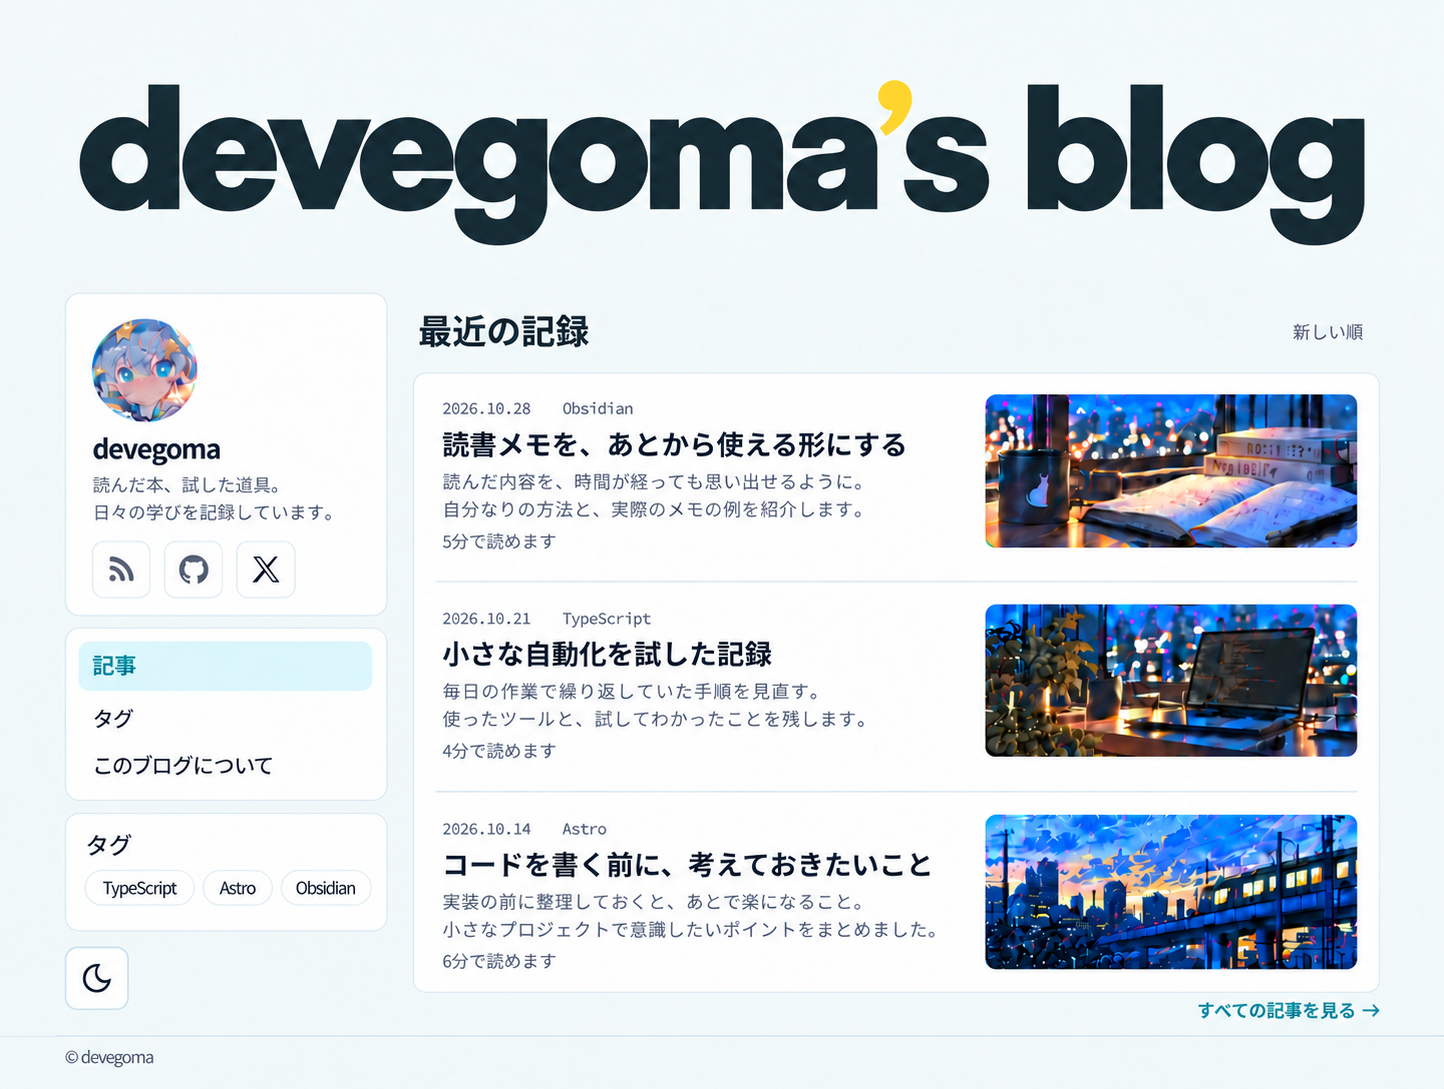
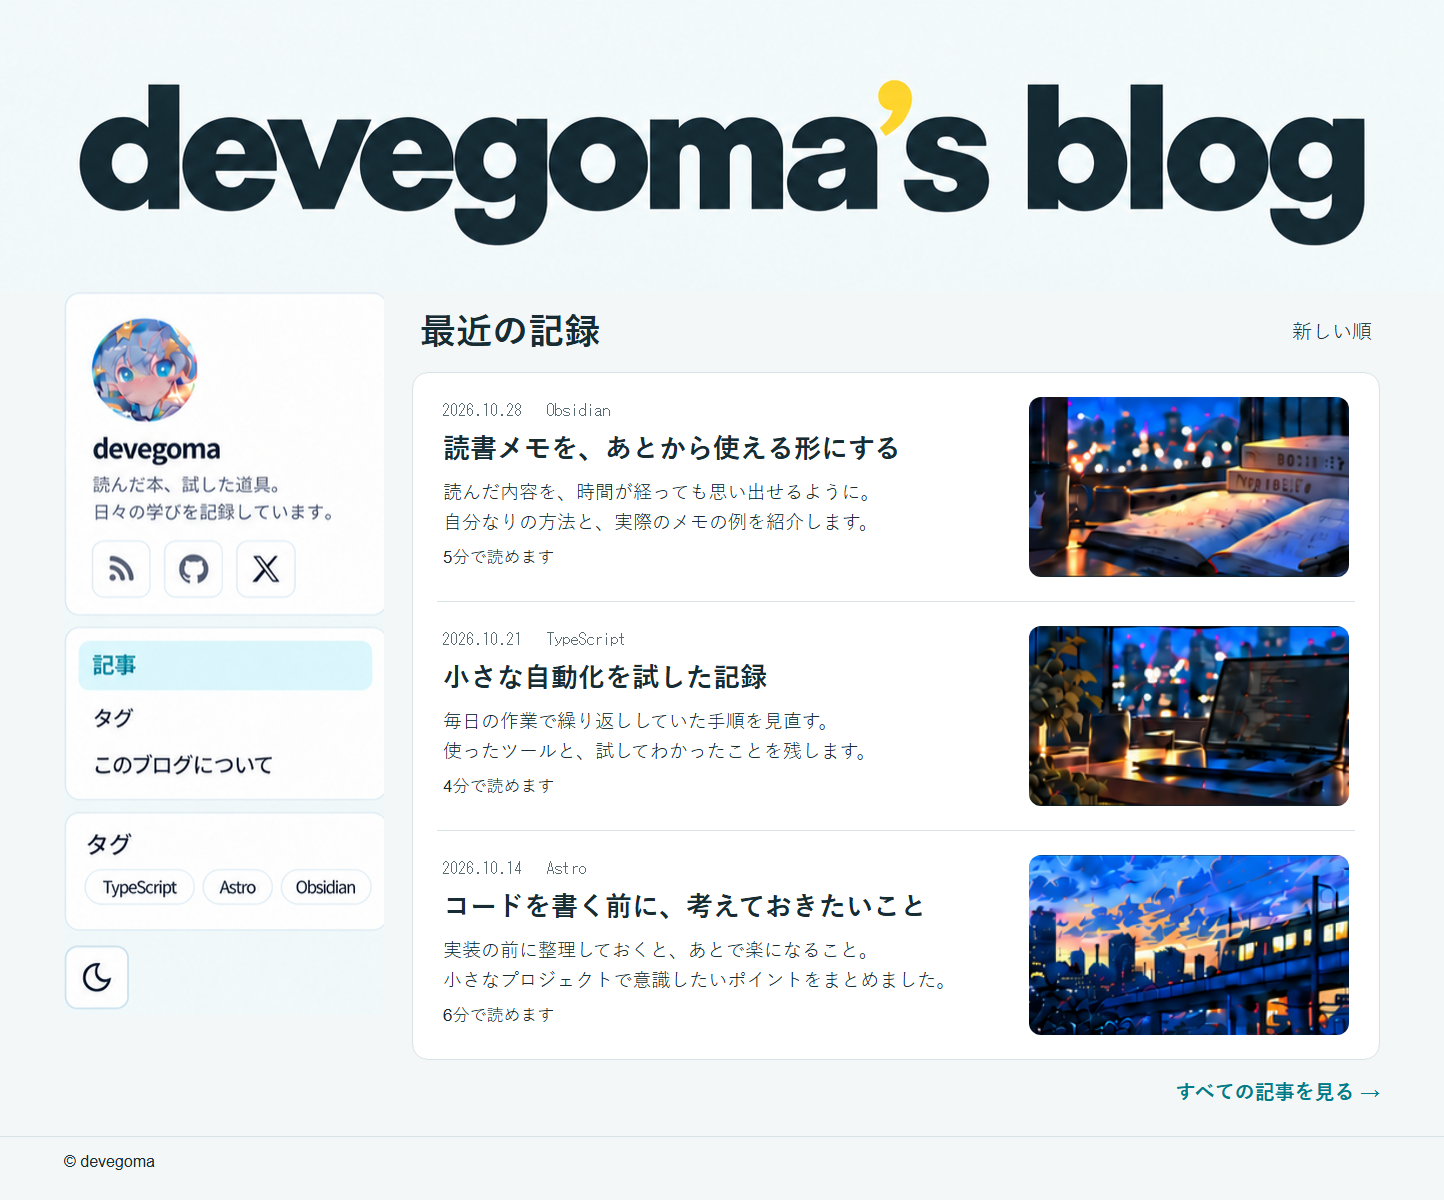
docs: align home thumbnails to 16:9

diff --git a/docs/design/home/preview.html b/docs/design/home/preview.html
@@ -1,0 +1,216 @@
+<!doctype html>
+<html lang="ja">
+    <meta charset="UTF-8" />
+    <title>ホーム画面・PC デザイン確認用</title>
+    <style>
+        /* デザイン資料専用。1444px の PC 画面を再現する。 */
+        * {
+            box-sizing: border-box;
+        }
+        body {
+            margin: 0;
+            width: 1444px;
+            background: #f3f7f8;
+            color: #172c33;
+            font-family: Arial, "Yu Gothic", sans-serif;
+        }
+        body.dark {
+            background: #08191f;
+            color: #fff;
+        }
+        .masthead {
+            height: 292px;
+            background: url("reference-light.png") 0 0 / 1444px 1088px;
+        }
+        .dark .masthead {
+            background-image: url("reference-dark.png");
+        }
+        main {
+            display: grid;
+            grid-template-columns: 320px 1fr;
+            gap: 28px;
+            margin: 0 64px;
+        }
+        aside {
+            height: 722px;
+            background: url("reference-light.png") -64px -292px / 1444px 1088px;
+        }
+        .dark aside {
+            background-image: url("reference-dark.png");
+        }
+        .heading {
+            height: 80px;
+            display: flex;
+            align-items: center;
+            justify-content: space-between;
+            padding: 0 8px;
+        }
+        h1 {
+            margin: 0;
+            font-size: 36px;
+        }
+        .heading span {
+            font-size: 20px;
+        }
+        .articles {
+            overflow: hidden;
+            border: 1px solid #d8e3e6;
+            border-radius: 16px;
+            background: #fff;
+            padding: 0 24px;
+        }
+        .dark .articles {
+            background: #102229;
+            border-color: #2b515f;
+        }
+        article {
+            display: flex;
+            align-items: center;
+            gap: 32px;
+            padding: 24px 6px;
+            min-height: 228px;
+        }
+        article + article {
+            border-top: 1px solid #d8e3e6;
+        }
+        .dark article + article {
+            border-color: #2b515f;
+        }
+        .copy {
+            flex: 1;
+            min-width: 0;
+        }
+        .meta {
+            font: 16px monospace;
+            color: #586b73;
+        }
+        .dark .meta {
+            color: #d8e3e6;
+        }
+        h2 {
+            margin: 12px 0 8px;
+            font-size: 27px;
+            line-height: 1.45;
+        }
+        p {
+            margin: 0;
+            font-size: 19px;
+            line-height: 1.6;
+        }
+        .time {
+            margin-top: 6px;
+            font-size: 17px;
+        }
+        .thumbnail {
+            flex: 0 0 320px;
+            width: 320px;
+            aspect-ratio: 16 / 9;
+            border-radius: 12px;
+            overflow: hidden;
+            position: relative;
+        }
+        /* 元画像内のサムネイルを等倍比率で拡大し、左右を中央で切り取る。変形しない。 */
+        .thumbnail::before {
+            content: "";
+            position: absolute;
+            width: 1444px;
+            height: 1088px;
+            background: url("reference-dark.png");
+            transform: scale(1.1764705882352942);
+            transform-origin: 0 0;
+            left: -1218.8235294117646px;
+            top: var(--photo-top);
+        }
+        .photo-1 {
+            --photo-top: -463.5294117647059px;
+        }
+        .photo-2 {
+            --photo-top: -710.5882352941177px;
+        }
+        .photo-3 {
+            --photo-top: -957.6470588235294px;
+        }
+        .more {
+            display: block;
+            text-align: right;
+            color: #007b8a;
+            margin-top: 16px;
+            font-size: 20px;
+            font-weight: bold;
+        }
+        .dark .more {
+            color: #00e5ef;
+        }
+        footer {
+            margin-top: 28px;
+            padding: 16px 64px;
+            border-top: 1px solid #d8e3e6;
+        }
+        .dark footer {
+            border-color: #2b515f;
+        }
+    </style>
+    <body>
+        <header class="masthead" aria-label="devegoma’s blog"></header>
+        <main>
+            <aside
+                aria-label="プロフィール・ナビゲーション・タグ・表示切り替えの配置見本"
+            ></aside>
+            <section>
+                <div class="heading">
+                    <h1>最近の記録</h1>
+                    <span>新しい順</span>
+                </div>
+                <div class="articles">
+                    <article>
+                        <div class="copy">
+                            <div class="meta">2026.10.28　 Obsidian</div>
+                            <h2>読書メモを、あとから使える形にする</h2>
+                            <p>
+                                読んだ内容を、時間が経っても思い出せるように。<br />自分なりの方法と、実際のメモの例を紹介します。
+                            </p>
+                            <p class="time">5分で読めます</p>
+                        </div>
+                        <div
+                            class="thumbnail photo-1"
+                            role="img"
+                            aria-label="本と読書ノート"
+                        ></div>
+                    </article>
+                    <article>
+                        <div class="copy">
+                            <div class="meta">2026.10.21　 TypeScript</div>
+                            <h2>小さな自動化を試した記録</h2>
+                            <p>
+                                毎日の作業で繰り返ししていた手順を見直す。<br />使ったツールと、試してわかったことを残します。
+                            </p>
+                            <p class="time">4分で読めます</p>
+                        </div>
+                        <div
+                            class="thumbnail photo-2"
+                            role="img"
+                            aria-label="ノートパソコン"
+                        ></div>
+                    </article>
+                    <article>
+                        <div class="copy">
+                            <div class="meta">2026.10.14　 Astro</div>
+                            <h2>コードを書く前に、考えておきたいこと</h2>
+                            <p>
+                                実装の前に整理しておくと、あとで楽になること。<br />小さなプロジェクトで意識したいポイントをまとめました。
+                            </p>
+                            <p class="time">6分で読めます</p>
+                        </div>
+                        <div
+                            class="thumbnail photo-3"
+                            role="img"
+                            aria-label="夕暮れの電車"
+                        ></div>
+                    </article>
+                </div>
+                <span class="more">すべての記事を見る →</span>
+            </section>
+        </main>
+        <footer>© devegoma</footer>
+    </body>
+</html>

diff --git a/docs/design/README.md b/docs/design/README.md
@@ -28,6 +28,8 @@
 - 左サイドバーを「ショートプロフィール → ナビゲーション → タグ → ライト・ダーク切り替え」の順に配置する。
 - ナビゲーションは「記事」「タグ」「このブログについて」。ページ最上部には置かない。
 - 右側に記事一覧を配置し、各記事のサムネイルを表示する。
+- サムネイルはライト・ダークともに横16:縦9の比率で統一する。PC の表示目安は320×180pxとし、表示幅に応じて比率を保ったまま縮小する。画像を縦横別々に引き伸ばさない。
+- サムネイルの上下に20px以上の余白を取り、記事の行は画像と文章が収まる高さにする。画像の高さを優先して行と区切り線の位置を調整し、浅い横長の枠に押し込まない。
 
 ### モバイル
 
@@ -56,7 +58,11 @@
 
 ### 実装との区別
 
-最終 PC 画像は組み込みの ImageGen で「既存のロゴ・サイドバー・記事内容・サムネイル・タグ下の切り替えボタンを維持し、記事一覧だけを一枚の共通背景にまとめ、記事間を2本の細い横罫線で区切る」と指示し、ライト・ダークを個別に生成した。
+更新前の PC 画像は組み込みの ImageGen で「既存のロゴ・サイドバー・記事内容・サムネイル・タグ下の切り替えボタンを維持し、記事一覧だけを一枚の共通背景にまとめ、記事間を2本の細い横罫線で区切る」と指示し、ライト・ダークを個別に生成した。
+
+2026-10-30 に PC 画像を更新した。ImageGen による修正ではサムネイルの比率が揃わなかったため、[確認用 HTML](./home/preview.html) の `aspect-ratio: 16 / 9` で320×180pxの表示枠を固定し、Playwright で最終画像を書き出した。全6枠（3記事×2配色）の実寸と文章の横方向のはみ出しを検査する。
+
+再生成はリポジトリルートで `node docs/design/home/render.mjs` を実行する。Playwright の Chromium が必要。`reference-light.png`・`reference-dark.png` は更新前の生成画像であり、ヘッダー・サイドバーとサンプル写真の参照用として保持する。確認用 HTML は PC 専用の静的な配置見本で、リンク・切り替えボタンの動作やモバイル対応を実装したサイトではない。サンプル写真は比率を維持して拡大し、16:9枠に中央で切り取って表示する。公開用には16:9の元画像を使用する。
 
 画像は画面デザインの基準であり、サイト実装の完了を示さない。記事タイトル・日付・説明文は表示確認用のサンプル。正式なプロフィール文、アバターの元データ、各リンク先 URL は公開準備時に確認する。
 
